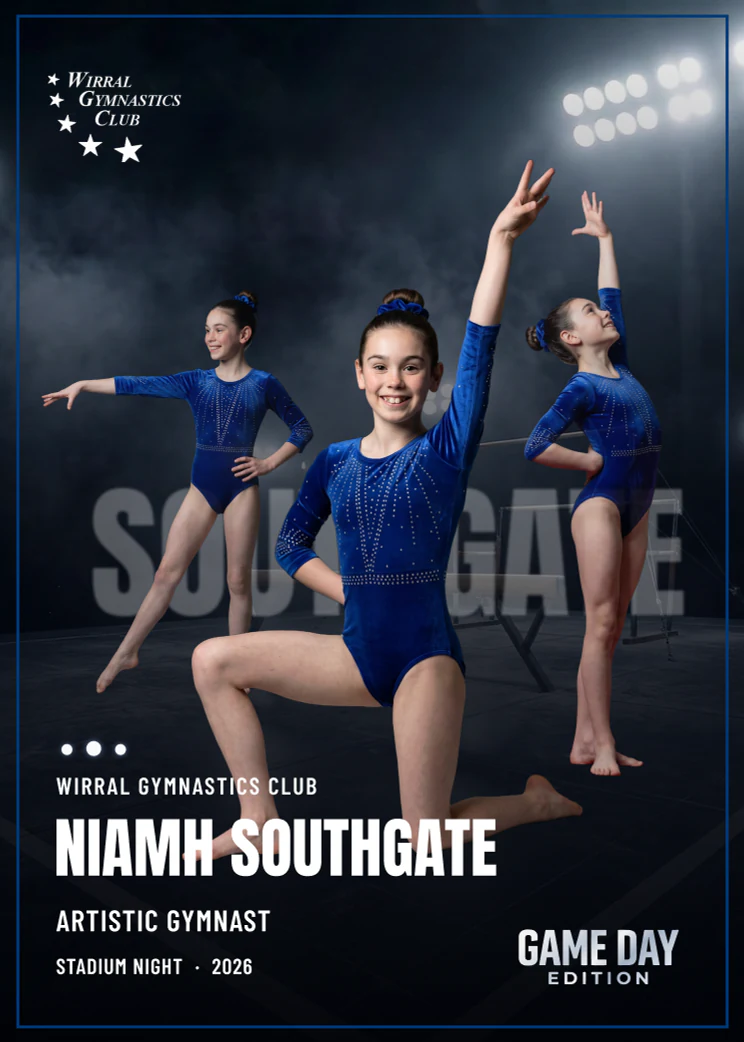
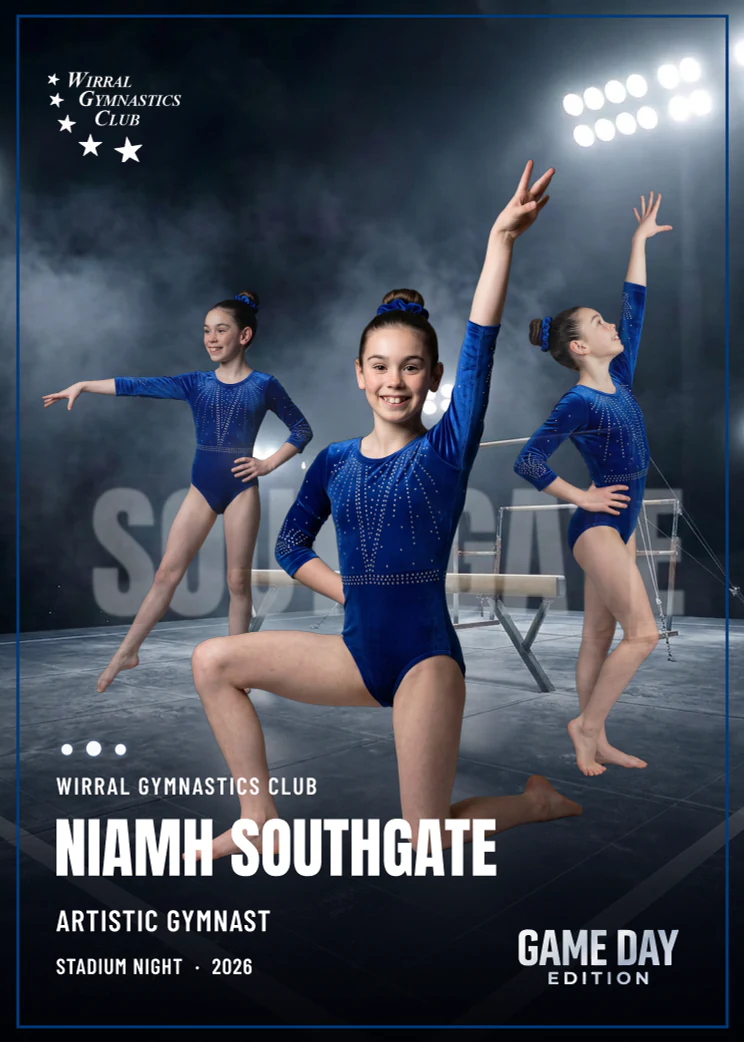
Registry: Niamh's final card on /c/GDE-SN-GYM-2026-02 (prof1 action2, Progress Not Perfection, print shading fixed)

diff --git a/lib/registry/cards.ts b/lib/registry/cards.ts
@@ -225,8 +225,9 @@ export const cards: CardRecord[] = [
     stats: [],
     sportCode: "GYM",
     styleName: "Stadium Night",
-    playerHighlight: "Reaching for the Stars",
+    playerHighlight: "Progress, Not Perfection",
     createdAt: "2026-09-26",
+    updatedAt: "2026-10-04",
     visibility: "unlisted",
     channel: "etsy",
     ageBand: "minor",
